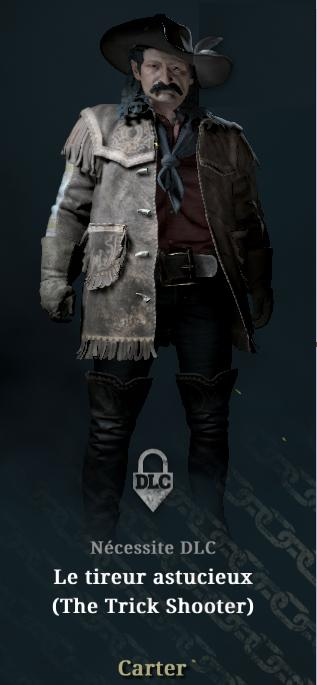
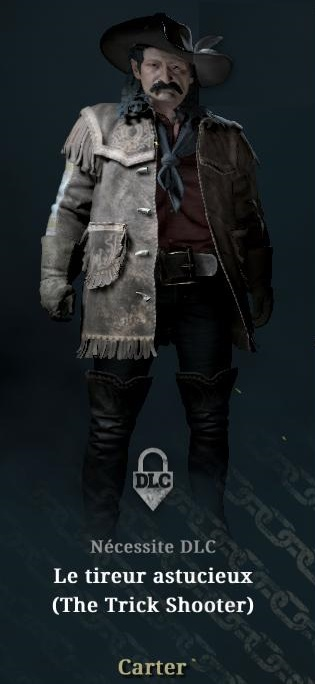
Rectification de la photo de Carter et ajout de Lore su certains personnages

diff --git a/chasseurs.html b/chasseurs.html
@@ -59,7 +59,11 @@
             DLC ils sont souvent accompagnés de skin d'armes/consommables. Je n'ai pas débloqué tous les chasseurs, cela
             vous donnera un aperçu de leurs prix
             pour les débloquer, mais le prix reste subjectif car ils font souvent des promos sur le jeu. C'est pourquoi
-            je vous conseil d'attendre un peu si vous en voulez un en particulier.</p>
+            je vous conseil d'attendre un peu si vous en voulez un en particulier. Ces derniers temps, les nouveaux
+            chasseurs et/ou événements sont accompagnés de petite vidéo de présentation qui sont visible sur la page
+            officiel de <a href="https://www.youtube.com/@HuntShowdown" target="_blank" class="chasseur-a">Hunt
+                Showdown, sur
+                youtube.</a> </p>
         <h2 class="chasseurs-h2">Pour voir la bio de chaque personnage, passez simplement votre souris sur chaque photo
             et sur mobile
             cliquez simplement dessus.</h2>
@@ -208,150 +212,290 @@
                         d'utiliser ses charmes et son instinct à bon escient pour participer à la Chasse.</p>
                 </div>
                 <div class="card-chasseur">
-                    <img src="./images/chasseurs/avocat-diable.jpg" alt="Image du chasseur légendaire, trompe la mort.">
+                    <img src="./images/chasseurs/avocat-diable.jpg"
+                        alt="Image du chasseur légendaire, Avocat du diable.">
+                    <p>Henry Trapp n'est pas qu'un homme bien. Quand ses mauvais penchants prennent le dessus, il
+                        endosse le rôle du diable pour extérioriser ses pulsions les plus sombres. Tous se raccrochent
+                        au bien qu'Henry fait et préfèrent ne rien voir. Mais quand la Chasse a commencé, c'est lui
+                        qu'ils ont envoyé pour sauver les innocents.</p>
                 </div>
                 <div class="card-chasseur">
-                    <img src="./images/chasseurs/oeil-acier.jpg" alt="Image du chasseur légendaire, trompe la mort.">
+                    <img src="./images/chasseurs/oeil-acier.jpg" alt="Image du chasseur légendaire, Œil d'acier.">
+                    <p>La poussière se pose sur les tombes des imprudents, et la piste vous mènera tôt ou tard à votre
+                        mort. C'est la mantra de Red Descot, murmuré à travers les cols montagneux, les ravins asséchés
+                        et les prairies brûlées. C'était un périple solitaire, qui ne menait nulle part et qui fuyait
+                        tout. Jusqu'à ce que l'appel à la Chasse se fasse entendre : un appel pour que tout le courage
+                        et l'angoisse de Red servent enfin une cause plus importante.</p>
                 </div>
                 <div class="card-chasseur">
-                    <img src="./images/chasseurs/ave-mary.jpg" alt="Image du chasseur légendaire, trompe la mort.">
+                    <img src="./images/chasseurs/ave-mary.jpg" alt="Image du chasseur légendaire, Ave Mary.">
+                    <p>C'est à sa communion que Mary Burgess a goûté au sang pour la première fois. La deuxième, c'était
+                        lorsqu'elle a défendu son couvent. Et la troisième, une fois excommuniée et en disgrâce, c'était
+                        dans le Bayou, où elle a tourné sa juste colère vers les corrompus, et a répandu leur sang dans
+                        l'espoir de retrouver son chemin vers la lumière.</p>
                 </div>
                 <div class="card-chasseur">
-                    <img src="./images/chasseurs/viper-1.jpg" alt="Image du chasseur légendaire, trompe la mort.">
+                    <img src="./images/chasseurs/viper-1.jpg"
+                        alt="Image du chasseur légendaire, La Vipère : présentation.">
+                    <p>Malgré des centaines de victimes, personne ne connaît son nom, son visage, ni même son genre. Les
+                        Occidentaux appellent cet assassin persan la « Vipère », car iel est aussi silencieux et habile
+                        que cette créature redoutable, et le poison est sa marque de fabrique. En piquant l'intérêt de
+                        M. Chary, sa vie a été condamnée à changer de façon irrémédiable.</p>
                 </div>
                 <div class="card-chasseur">
-                    <img src="./images/chasseurs/viper-2.jpg" alt="Image du chasseur légendaire, trompe la mort.">
+                    <img src="./images/chasseurs/viper-2.jpg"
+                        alt="Image du chasseur légendaire, La Vipère : ascension.">
+                    <p>Les Pécheurs lui offraient de l'argent et des faveurs, mais ce qui a convaincu la Vipère de
+                        répondre à l'appel de M. Chary fut sa promesse solennelle que son serpent Delara recouvrerait
+                        ses forces. La Lune du serpent redonna des forces à Delara et un sentiment inédit d'espoir à la
+                        Vipère.</p>
                 </div>
                 <div class="card-chasseur">
-                    <img src="./images/chasseurs/viper-3.jpg" alt="Image du chasseur légendaire, trompe la mort.">
+                    <img src="./images/chasseurs/viper-3.jpg"
+                        alt="Image du chasseur légendaire, La Vipère : révolution.">
+                    <p>Quand tout fut plus calme, le résultat était là : Delara était saine et sauve. La Vipère brisa
+                        son accord avec l'homme qui avait mis sa vie en danger et tenta de tourner la page. Mais
+                        l'amertume de la trahison demeurait, et poussa la Vipère à se battre, cette fois-ci, de sa
+                        propre volonté.</p>
                 </div>
                 <div class="card-chasseur">
-                    <img src="./images/chasseurs/viper-4.jpg" alt="Image du chasseur légendaire, trompe la mort.">
+                    <img src="./images/chasseurs/viper-4.jpg" alt="Image du chasseur légendaire, La Vipère : frénésie.">
+                    <p>La Vipère décrouvrit des secrets qu'aucun mortel ne devrait connaître. Au lieu de succomber à la
+                        folie, iel mua en autre chose. Au lieu d'être relégué aux ténèbres, iel suit désormais ses
+                        propres désirs. Investie d'une nouvelle puissance, la Vipère poursuivit son nouvel objectif dans
+                        les profondeurs du Bayou.</p>
                 </div>
                 <div class="card-chasseur">
-                    <img src="./images/chasseurs/contamine.jpg" alt="Image du chasseur légendaire, trompe la mort.">
+                    <img src="./images/chasseurs/mama-maye.jpg" alt="Image du chasseur légendaire, Mama Maye.">
+                    <p>Selon les légendes, si vous vous rendez dans la serre à l'extérieur de Lawson, vous l'apercevrez
+                        : une silhouette fantomatique qui déambule et s'occupe des fleurs et des plantes. Mais ne la
+                        laissez pas vous attraper, où vous pourriez servir de nourriture à sa flore.</p>
                 </div>
                 <div class="card-chasseur">
-                    <img src="./images/chasseurs/llonora.jpg" alt="Image du chasseur légendaire, trompe la mort.">
+                    <img src="./images/chasseurs/contamine.jpg" alt="Image du chasseur légendaire, Le Contaminé.">
+                    <p>La plupart des gens exposés à la corruption du Bayou se transforment heureusement rapidement.
+                        Certains, moins chanceux, survivent assez longtemps pour observer leur sort lent et douloureux.
+                        Ils succombent à la folie et aux plaies suppurantes. D'autres, comme Bennett Hudson, souffrent
+                        d'une nécrose qui se répand comme la gangrène, mais n'offre jamais la délivrance de la mort.</p>
                 </div>
                 <div class="card-chasseur">
-                    <img src="./images/chasseurs/fantome.jpg" alt="Image du chasseur légendaire, trompe la mort.">
+                    <img src="./images/chasseurs/llonora.jpg"
+                        alt="Image du chasseur légendaire, Héritière de la Llonora.">
+                    <p>À l'instar de la légende dont elle emploie le nom, Llorona s'est forgé une réputation redoutable
+                        en noyant ses victimes et en tourmentant ses ennemis. Pareille à une ombre, elle est vive et
+                        subtile, avec une arme à feu autant qu'avec un couteau.</p>
                 </div>
                 <div class="card-chasseur">
-                    <img src="./images/chasseurs/montagnard.jpg" alt="Image du chasseur légendaire, trompe la mort.">
+                    <img src="./images/chasseurs/fantome.jpg" alt="Image du chasseur légendaire, Le Fantôme.">
+                    <p>Gus Leroux : ancien avocat ayant un goût prononcé pour la violence, ce chasseur très cabotin
+                        porte un masque effrayant, non pas pour cacher les blessures à son visage, mais bien plus pour
+                        terrifier ses adversaires.</p>
                 </div>
                 <div class="card-chasseur">
-                    <img src="./images/chasseurs/chercheur.jpg" alt="Image du chasseur légendaire, trompe la mort.">
+                    <img src="./images/chasseurs/montagnard.jpg" alt="Image du chasseur légendaire, Le Montagnard.">
+                    <p>Thomas Bridge était l'un des nombreux Mountain Men, ces hommes qui explorèrent l'Ouest américain.
+                        Il se retira de la civilisation après avoir survécu à l'incendie d'un moulin attaqué par cinq
+                        cents insurgés. Depuis, il ne peut dormir qu'à la belle étoile et il passe ses journées à poser
+                        des pièges, à explorer les étendues sauvages et à chasser les primes. Son association avec un
+                        trio maléfique faillit mettre un terme à sa carrière de chasseur, même s'il était le plus
+                        qualifié pour parvenir à leur survivre.</p>
                 </div>
                 <div class="card-chasseur">
-                    <img src="./images/chasseurs/rat.jpg" alt="Image du chasseur légendaire, trompe la mort.">
+                    <img src="./images/chasseurs/chercheur.jpg" alt="Image du chasseur légendaire, Le Chercheur.">
+                    <p>Le journal d'Harold Black, réunissant des croquis anatomiques, des observations scientifiques et
+                        des évaluations psychologiques, est la principale source de renseignements sur l'ennemi de
+                        l'AHA. Black ne connut pas beaucoup de succès jusqu'à l'automne de sa vie, quand une mission
+                        fortuite le conduisit à changer de voie. Son éducation variée, acquise lors d'un parcours
+                        hétéroclite, lui donna la capacité de voir les liens là où personne d'autre ne le pouvait, et de
+                        voir la raison là où les autres ne voyaient que la folie.</p>
+                </div>
+                <div class="card-chasseur">
+                    <img src="./images/chasseurs/rat.jpg" alt="Image du chasseur légendaire, Le Rat.">
+                    <p>Il existe deux types de personnes : ceux qui se plient à la loi et les autres. Tona Ramirez
+                        appartient à la deuxième catégorie. En enterrant son père dans une tombe anonyme à la frontière,
+                        elle s'appropria son héritage : un surnom et l'histoire d'un homme à qui on a dérobé sa fortune.
+                        Le Rat est maintenant à la recherche de cette fortune et c'est la raison de sa présence en
+                        Louisiane.</p>
                 </div>
                 <div class="card-chasseur">
                     <img src="./images/chasseurs/benediction-mortelle.jpg"
-                        alt="Image du chasseur légendaire, trompe la mort.">
+                        alt="Image du chasseur légendaire, Bénédiction mortelle.">
+                    <p>Bien qu'elle ne parle jamais de son passé, son nom en dit long sur ses talents et son destin.
+                        Bien que son voyage en Amérique avec Zhong Kui a été des plus périlleux du fait des
+                        interdictions relatives à l'immigration des Chinois, les chasseurs de Louisiane furent heureux
+                        de l'arrivée du duo, et quelque peu intimidés une fois sur le champs de bataille.</p>
                 </div>
                 <div class="card-chasseur">
-                    <img src="./images/chasseurs/zhong-kui.jpg" alt="Image du chasseur légendaire, trompe la mort.">
+                    <img src="./images/chasseurs/zhong-kui.jpg" alt="Image du chasseur légendaire, Zhong Kui.">
+                    <p>Descendant d'une ancienne lignée de chasseurs de démons, l'homme qui se fait appeler Zhong Kui
+                        est associé à cinq chauves-souris représentant les cinq fortunes : la longévité, la richesse, la
+                        santé, la vertu, et une mort paisible. Pourtant, ce ne sont pas les fortunes d'un chasseur :
+                        seules la mort ( les quatre autres chauves-souris représentent la malédiction ) et la
+                        bénédiction de la mort attendent Zhong et sa compagne.
+                    </p>
                 </div>
                 <div class="card-chasseur">
-                    <img src="./images/chasseurs/pequenaud.jpg" alt="Image du chasseur légendaire, trompe la mort.">
+                    <img src="./images/chasseurs/pequenaud.jpg" alt="Image du chasseur légendaire, Le Péquenaud.">
+                    <p>William Moses, l'heureux propriétaire des volailles Moses, est tout sauf une poule mouillée.
+                        L'AHA, chassant à longue distance rapportée dévoyée, l'a retrouvé terré dans sa ferme et armé
+                        jusqu'aux dents. Çà et là, il rejoignait les chasseurs ayant résisté au Sculpteur pendant un
+                        temps record. On s'interroge si c'est dû à sa stupidité ou à son entêtement.</p>
                 </div>
                 <div class="card-chasseur">
-                    <img src="./images/chasseurs/archeologue.jpg" alt="Image du chasseur légendaire, trompe la mort.">
+                    <img src="./images/chasseurs/archeologue.jpg" alt="Image du chasseur légendaire, L'Archéologue.">
+                    <p>Elise Austin s'est fait un nom en essayant de percer le mystère des empreintes des Hopis et de
+                        les protéger. Cela l'a amenée à étudier la légende de la destruction de Palatkwapi, un mythe qui
+                        l'obsède désormais, au détriment de sa réputation chèrement acquise. Alors qu'elle errait dans
+                        le désert, elle fit un rêve : deux enfants chutant dans une eau noire. Reconnaissant
+                        l'importance de ce songe, elle le suivit, comme tant d'autres, jusqu'au Bayou.</p>
                 </div>
                 <div class="card-chasseur">
-                    <img src="./images/chasseurs/revenant.jpg" alt="Image du chasseur légendaire, trompe la mort.">
+                    <img src="./images/chasseurs/revenant.jpg" alt="Image du chasseur légendaire, Le Revenant.">
+                    <p>John Robertson voulait sortir du lot : être un héros ou, si ce n'était pas possible, mourir comme
+                        un héros. Au final, il a échoué sur les deux tableaux : abattu sans cérémonie d'une balle en
+                        plein cœur pendant une partie de poker, il s'est trouvé à la croisée des chemins. Chose
+                        étonnante, il fut le premier à se trouver là, bien qu'il allait s'avérer être l'un des rares à
+                        choisir la route le ramenant à la vie, guidé par le chant de l'Orateur de la nuit.</p>
                 </div>
                 <div class="card-chasseur">
-                    <img src="./images/chasseurs/ronin.jpg" alt="Image du chasseur légendaire, trompe la mort.">
+                    <img src="./images/chasseurs/ronin.jpg" alt="Image du chasseur légendaire, Le Rônin.">
+                    <p>Inuta Bakin venait à peine de prêter son serment d'allégeance lorsque le Shogunat Tokugawa prit
+                        fin. Sans maître, il a erré plus loin que la plupart des rônins à la recherche du pouvoir pour
+                        se venger. Quelque peu attaché aux traditions, il s'habille et se bat dans un style vieux de
+                        plusieurs siècles, mais toujours aussi efficace : beaucoup ont eu comme dernière vision son
+                        masque Oni au regard noir avant de trépasser dans le Bayou.</p>
                 </div>
                 <div class="card-chasseur">
-                    <img src="./images/chasseurs/carter.jpg" alt="Image du chasseur légendaire, trompe la mort.">
+                    <img src="./images/chasseurs/carter.jpg" alt="Image du chasseur légendaire, Carter.">
+                    <p>William Carter était un tireur d'élite et l'inventeur d'une nouvelle attraction originale pour
+                        les spectacles du Far
+                        West dans lesquels il tient la vedette. Toujours sur le devant de la scène, il a romancé la plus
+                        grande partie de sa vie
+                        et bien que personne ne connaisse ses véritables origines, deux choses sont sûres : c'est un
+                        tireur redoutable doté d'un
+                        formidable sens de l'humour et d'un goût de l'aventure.</p>
                 </div>
                 <div class="card-chasseur">
                     <img src="./images/chasseurs/etoile-polaire.jpg"
-                        alt="Image du chasseur légendaire, trompe la mort.">
+                        alt="Image du chasseur légendaire, Étoile Polaire.">
+                    <p>Une érudite de la mythologie et maître des Cinq éléments, Chen Lan a répondu à l’appel à l’aide
+                        de l’Association des
+                        Chasseurs américains, avide d’engranger du savoir qui pourrait l’aider dans son combat sur ses
+                        terres natales. Elle
+                        garde le silence à propos des détails de son voyage depuis la province de Fujian jusqu’à la
+                        Nouvelle-Orléans, même si
+                        son talent à manier les armes à feu et son penchant pour la violence en disent long sur la
+                        traînée écarlate qu’elle a
+                        tracée d’Est en Ouest.</p>
                 </div>
                 <div class="card-chasseur">
-                    <img src="./images/chasseurs/souverain.jpg" alt="Image du chasseur légendaire, trompe la mort.">
+                    <img src="./images/chasseurs/souverain.jpg" alt="Image du chasseur légendaire, Le Souverain.">
+                    <p>Stratège expert et tireur d’élite au talent hors pair, Xiao Feng a quitté la province de Fujian
+                        avec Chen Lan, sa
+                        partenaire de chasse, pour traverser le globe dans un déluge de rencontres sanglantes, sur terre
+                        comme sur mer. Des
+                        rumeurs à propos des compétences mortelles du duo ont précédé leur arrivée à la Nouvelle-Orléans
+                        et ils ont été
+                        accueillis dans le giron de l’AHA avec la révérence que l’on réserve à la plus haute noblesse.
+                    </p>
                 </div>
                 <div class="card-chasseur">
                     <img src="./images/chasseurs/fille-prodigue.jpg"
-                        alt="Image du chasseur légendaire, trompe la mort.">
+                        alt="Image du chasseur légendaire, La Fille prodigue.">
+                    <p>Des histoires et de creux récits à propos de l'héroïsme de sa mère en tant qu'espionne de l'Union
+                        pendant la Guerre civile étaient le seul héritage que reçut Sarah Burton. Ainsi, après
+                        l'enterrement, elle enfila l'uniforme de sa mère, partant pour - raconta-t-elle - se montrer à
+                        la hauteur de son exemple. Même si, en réalité, Burton essayait d'échapper à sa culpabilité - et
+                        à la sentence prononcée - pour matricide. Dans le bayou, elle trouva le défi qu'elle était venue
+                        chercher - et une chance d'expier ses péchés.</p>
                 </div>
                 <div class="card-chasseur">
-                    <img src="./images/chasseurs/monroe.jpg" alt="Image du chasseur légendaire, trompe la mort.">
+                    <img src="./images/chasseurs/monroe.jpg" alt="Image du chasseur légendaire, Monroe.">
+                    <p>L'unique survivant du massacre de l'asile à Jackson, Henry Monroe a réussi à échapper à ses
+                        auteurs qui étaient bien décidés à éliminer toute trace de leur crime. Les horreurs auxquelles
+                        il a assisté dans l'asile l'ont changé jusqu'à le rendre méconnaissalbe - et à contrecœur engagé
+                        à survivre par tous les moyens nécessaires. Les montres du Bayou ne sont que des broutilles,
+                        comparés à ce qu'il a subi aux mains de Huff.</p>
                 </div>
                 <div class="card-chasseur">
-                    <img src="./images/chasseurs/chasseur-bete.jpg" alt="Image du chasseur légendaire, trompe la mort.">
+                    <img src="./images/chasseurs/chasseur-bete.jpg"
+                        alt="Image du chasseur légendaire, Le Chasseur de bêtes.">
+                    <p>Des crocs grinçants et sanglants hantaient de leurs grognements les cauchemars de Theodore Tuck,
+                        jusqu'à ce que ce dernier découvre leur origine en Louisiane. Tuck a prouvé son courage en
+                        chassant les cerbères du Bayou, et sa témérité en tentant de les dompter pour qu'ils combattent
+                        à ses côtés.</p>
                 </div>
                 <div class="card-chasseur">
-                    <img src="./images/chasseurs/cain.jpg" alt="Image du chasseur légendaire, trompe la mort.">
+                    <img src="./images/chasseurs/cain.jpg" alt="Image du chasseur légendaire, Cain.">
+                    <p>D'une fureur primaire et avare en palabres, Cain est le nom que l'on prononces du bout des lèvres
+                        devant la mort. Ses sacrifices s'accumulent tandis qu'il traverse le Bayou infernal, tout
+                        cliquetant et accablé des ossements de son chagrin.</p>
                 </div>
                 <div class="card-chasseur">
-                    <img src="./images/chasseurs/spectre-teche.jpg" alt="Image du chasseur légendaire, trompe la mort.">
+                    <img src="./images/chasseurs/spectre-teche.jpg"
+                        alt="Image du chasseur légendaire, Le Spectre de la Teche.">
                 </div>
                 <div class="card-chasseur">
-                    <img src="./images/chasseurs/gamin.jpg" alt="Image du chasseur légendaire, trompe la mort.">
+                    <img src="./images/chasseurs/gamin.jpg" alt="Image du chasseur légendaire, Le Gamin.">
                 </div>
                 <div class="card-chasseur">
-                    <img src="./images/chasseurs/reptilien.jpg" alt="Image du chasseur légendaire, trompe la mort.">
+                    <img src="./images/chasseurs/reptilien.jpg" alt="Image du chasseur légendaire, Le Reptilien.">
                 </div>
                 <div class="card-chasseur">
-                    <img src="./images/chasseurs/sofia.jpg" alt="Image du chasseur légendaire, trompe la mort.">
+                    <img src="./images/chasseurs/sofia.jpg" alt="Image du chasseur légendaire, Sofia.">
                 </div>
                 <div class="card-chasseur">
-                    <img src="./images/chasseurs/bandit.jpg" alt="Image du chasseur légendaire, trompe la mort.">
+                    <img src="./images/chasseurs/bandit.jpg" alt="Image du chasseur légendaire, Le Bandit.">
                 </div>
                 <div class="card-chasseur">
                     <img src="./images/chasseurs/chasseuse-sorciere.jpg"
-                        alt="Image du chasseur légendaire, trompe la mort.">
+                        alt="Image du chasseur légendaire, La Chasseuse de sorcières.">
                 </div>
                 <div class="card-chasseur">
-                    <img src="./images/chasseurs/traitre.jpg" alt="Image du chasseur légendaire, trompe la mort.">
+                    <img src="./images/chasseurs/traitre.jpg" alt="Image du chasseur légendaire, Le Traître.">
                 </div>
                 <div class="card-chasseur">
                     <img src="./images/chasseurs/hurlement-solitaire.jpg"
-                        alt="Image du chasseur légendaire, trompe la mort.">
+                        alt="Image du chasseur légendaire, Hurlement solitaire.">
                 </div>
                 <div class="card-chasseur">
-                    <img src="./images/chasseurs/loup-sinistre.jpg" alt="Image du chasseur légendaire, trompe la mort.">
+                    <img src="./images/chasseurs/loup-sinistre.jpg" alt="Image du chasseur légendaire, Loup sinistre.">
                 </div>
                 <div class="card-chasseur">
-                    <img src="./images/chasseurs/louve-selene.jpg" alt="Image du chasseur légendaire, trompe la mort.">
+                    <img src="./images/chasseurs/louve-selene.jpg" alt="Image du chasseur légendaire, Louve sélène.">
                 </div>
                 <div class="card-chasseur">
                     <img src="./images/chasseurs/sergent-bridgewater.jpg"
-                        alt="Image du chasseur légendaire, trompe la mort.">
+                        alt="Image du chasseur légendaire, Sergent Bridgewater.">
                 </div>
                 <div class="card-chasseur">
-                    <img src="./images/chasseurs/limier-jack.jpg" alt="Image du chasseur légendaire, trompe la mort.">
+                    <img src="./images/chasseurs/limier-jack.jpg" alt="Image du chasseur légendaire, Limier Jack.">
                 </div>
                 <div class="card-chasseur">
-                    <img src="./images/chasseurs/fougueux.jpg" alt="Image du chasseur légendaire, trompe la mort.">
+                    <img src="./images/chasseurs/fougueux.jpg" alt="Image du chasseur légendaire, Le Fougueux.">
                 </div>
                 <div class="card-chasseur">
-                    <img src="./images/chasseurs/extra-lucide.jpg" alt="Image du chasseur légendaire, trompe la mort.">
+                    <img src="./images/chasseurs/extra-lucide.jpg" alt="Image du chasseur légendaire, L'Extra-lucide.">
                 </div>
                 <div class="card-chasseur">
                     <img src="./images/chasseurs/detective-prive.jpg"
-                        alt="Image du chasseur légendaire, trompe la mort.">
+                        alt="Image du chasseur légendaire, Détective privé.">
                 </div>
                 <div class="card-chasseur">
                     <img src="./images/chasseurs/enfant-pourriture.jpg"
-                        alt="Image du chasseur légendaire, trompe la mort.">
+                        alt="Image du chasseur légendaire, L'Enfant de la pourriture.">
                 </div>
                 <div class="card-chasseur">
-                    <img src="./images/chasseurs/penitent.jpg" alt="Image du chasseur légendaire, trompe la mort.">
+                    <img src="./images/chasseurs/penitent.jpg" alt="Image du chasseur légendaire, Le Pénitent.">
                 </div>
                 <div class="card-chasseur">
-                    <img src="./images/chasseurs/matelot-pont.jpg" alt="Image du chasseur légendaire, trompe la mort.">
+                    <img src="./images/chasseurs/matelot-pont.jpg" alt="Image du chasseur légendaire, Matelot de pont.">
                 </div>
                 <div class="card-chasseur">
-                    <img src="./images/chasseurs/faucheur.jpg" alt="Image du chasseur légendaire, trompe la mort.">
+                    <img src="./images/chasseurs/faucheur.jpg" alt="Image du chasseur légendaire, Le Faucheur.">
                 </div>
                 <div class="card-chasseur">
-                    <img src="./images/chasseurs/concubine.jpg" alt="Image du chasseur légendaire, trompe la mort.">
+                    <img src="./images/chasseurs/concubine.jpg" alt="Image du chasseur légendaire, La Concubine.">
                 </div>
 
             </div>

diff --git a/scss/pages/_chasseurs.scss b/scss/pages/_chasseurs.scss
@@ -15,6 +15,11 @@
   color: rgb(207, 200, 200);
   margin: 20px;
 }
+.chasseur-a {
+  text-decoration: none;
+  color: rgb(207, 200, 200);
+  font-style: italic;
+}
 .container-global-chasseur {
   width: 100%;
   display: flex;

diff --git a/scss/main.css b/scss/main.css
@@ -1834,6 +1834,12 @@ iframe {
   margin: 20px;
 }
 
+.chasseur-a {
+  text-decoration: none;
+  color: #cfc8c8;
+  font-style: italic;
+}
+
 .container-global-chasseur {
   width: 100%;
   display: -webkit-box;
